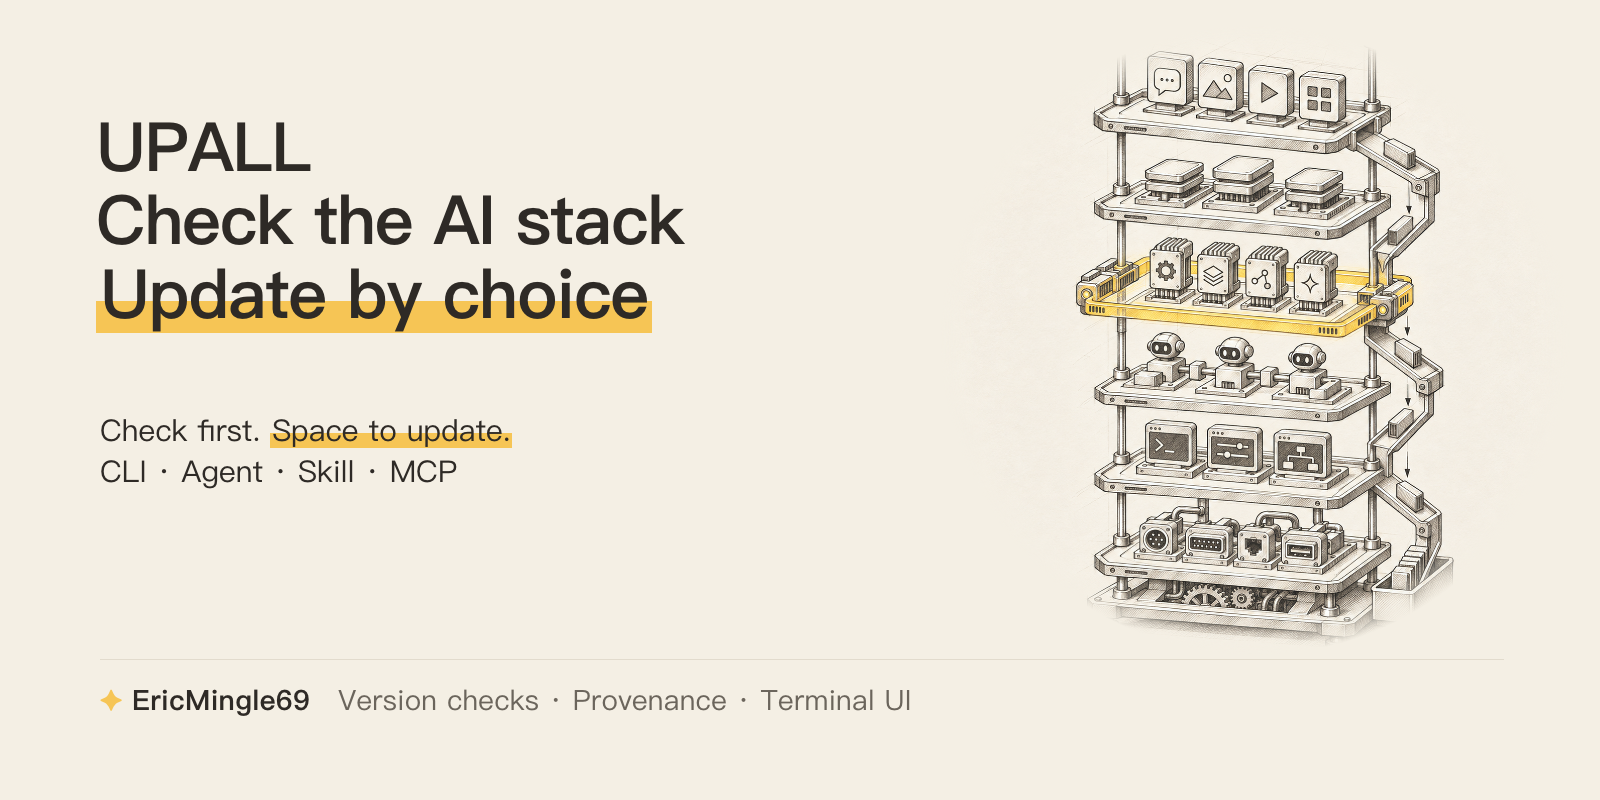
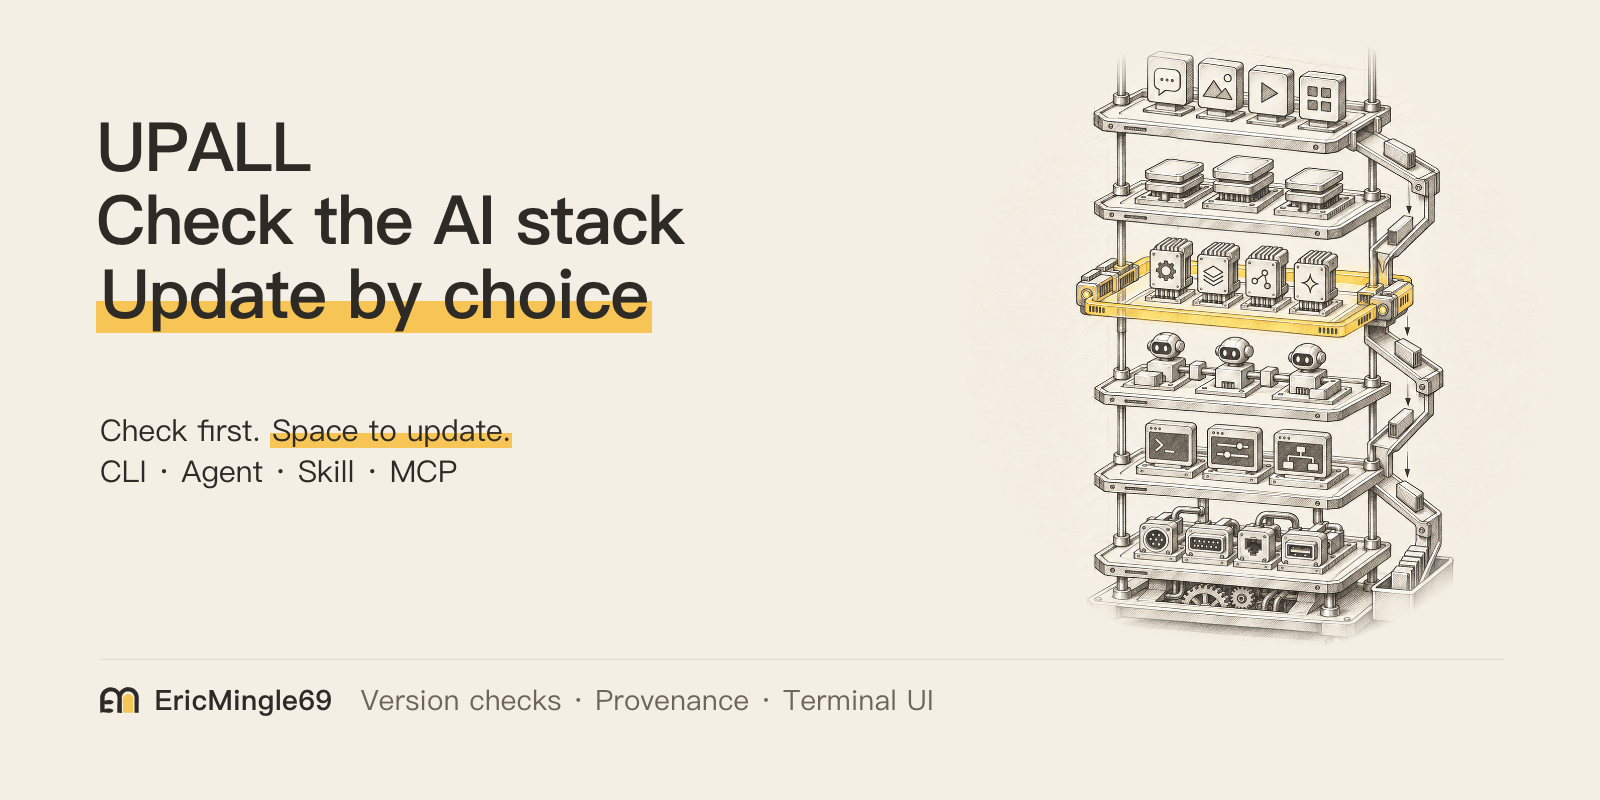
Docs: EM signature and covers

Changed region(s): [[0.0625, 0.8438, 0.5938, 0.9062]]

diff --git a/CHANGELOG.md b/CHANGELOG.md
@@ -2,6 +2,8 @@
 
 ## Unreleased
 
+- Replace cover signatures and README footer marks with the theme-aware EM logo; include the SVG assets in source distributions.
+
 - Make the Chinese README the default, add the matching English README and retain the old Chinese link as a forwarding page.
 - Add theme-aware illustrated covers, references, related work and explicit MCP/Skill boundaries; include documentation assets in source distributions. Runtime behavior and version remain unchanged.
 

diff --git a/README.en.md b/README.en.md
@@ -149,6 +149,6 @@ The cover illustration was generated by an image-generation model and processed 
 
 ---
 
-Documentation: **✦ EricMingle69** · [Ming-Sir-69](https://github.com/Ming-Sir-69)
+Maintained by <picture><source media="(prefers-color-scheme: dark)" srcset="readme-assets/em-logo-dark.svg"><img src="readme-assets/em-logo-light.svg" alt="EM" height="13"></picture> <b>EricMingle69</b> · <a href="https://github.com/Ming-Sir-69">Ming-Sir-69</a><br>
 
 License: [MIT](LICENSE).

diff --git a/README.md b/README.md
@@ -148,6 +148,6 @@ python3 -m venv .venv
 
 ---
 
-文档维护：**✦ EricMingle69** · [Ming-Sir-69](https://github.com/Ming-Sir-69)
+文档维护：<picture><source media="(prefers-color-scheme: dark)" srcset="readme-assets/em-logo-dark.svg"><img src="readme-assets/em-logo-light.svg" alt="EM" height="13"></picture> <b>EricMingle69</b> · <a href="https://github.com/Ming-Sir-69">Ming-Sir-69</a><br>
 
 许可：[MIT](LICENSE)。
